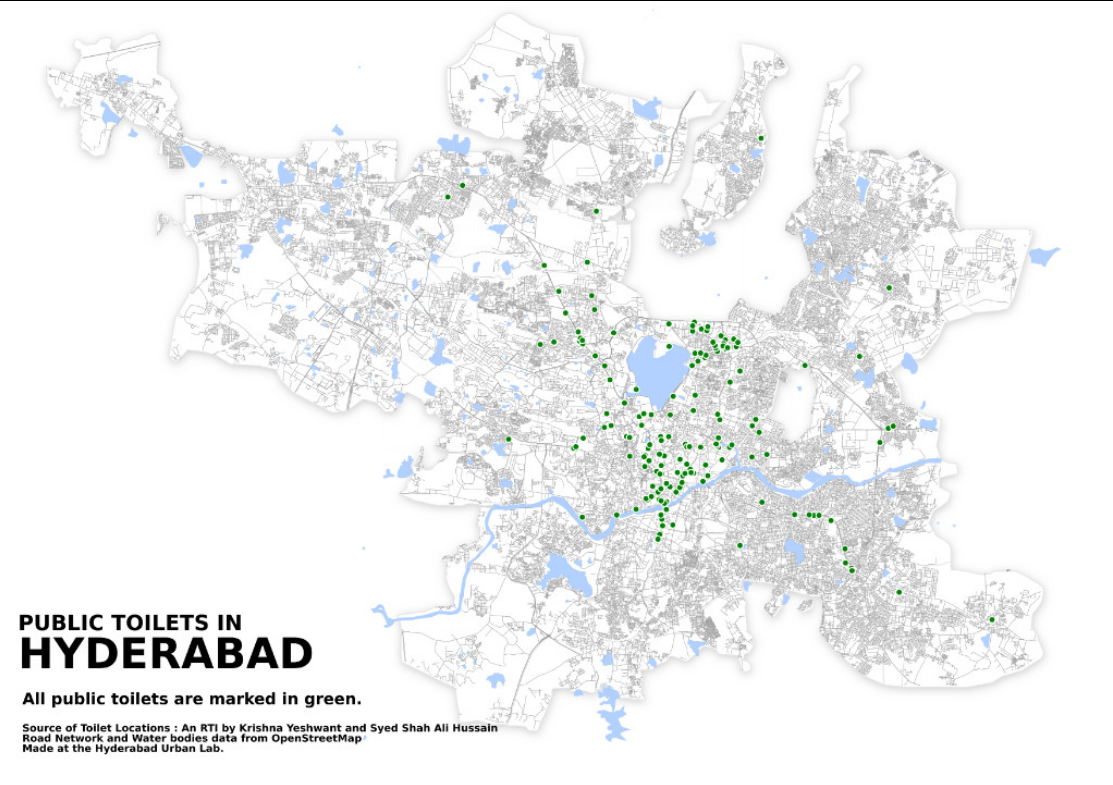
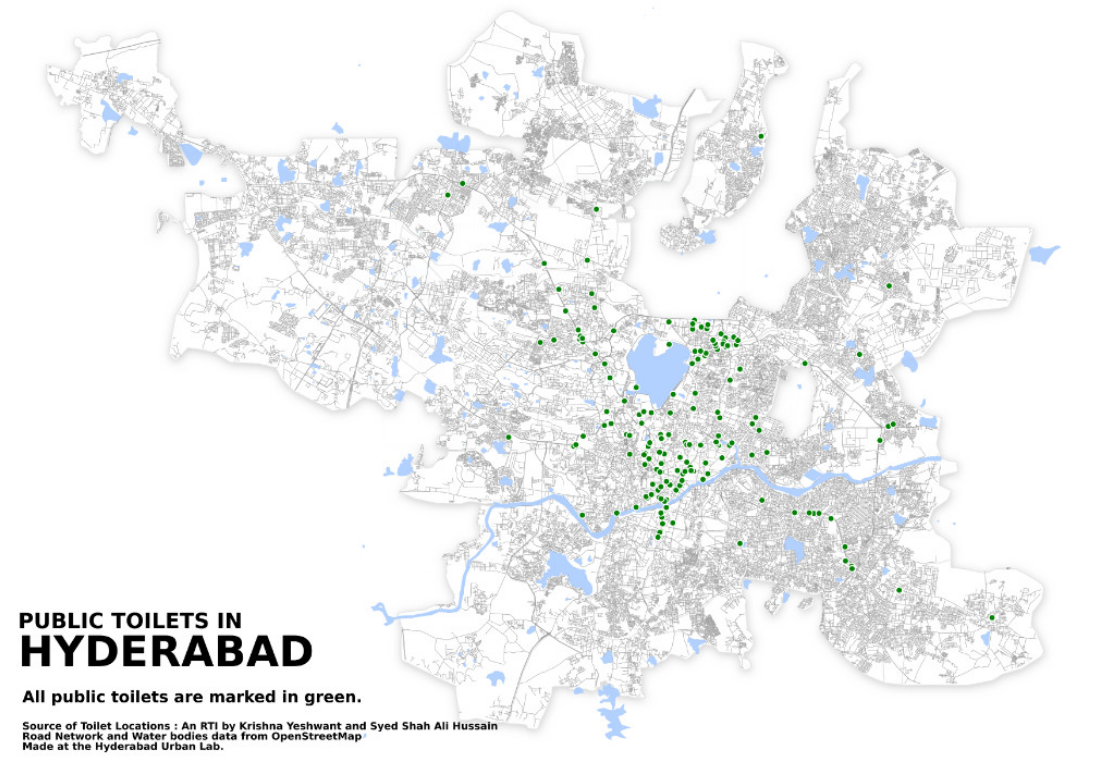
Cropping images to remove black lines and labelling post as draft

diff --git a/_posts/2020-07-28-geospatial-data-of-waste-in-india.md b/_posts/2020-07-28-geospatial-data-of-waste-in-india.md
@@ -7,6 +7,7 @@ sidebar:
   nav: spatial_review_series"
 ---
 
+# DRAFT 
 # Summary
 India's problems with waste are reviewed by academics Assa Doron and Robin Jeffrey in their recent work, Waste of a Nation [1]. They cite poor availability of 'on the ground' data as an important weakness of local urban government in India. In this essay, I highlight two examples of citizen and volunteer-led data projects in two separate Indian meagacities (Chennai and Hyderabad) that have engaged with marginalised commmunities to generate open data about their waste infrastructure issues. 
 
@@ -38,9 +39,9 @@ Luckily for India, this challenge of creating geospatial data and understanding 
 <p style='font-size: 90%; text-align: right; font-style:italic;'>
 - Hyderabad Urban Lab [3]
 </p>
+<br>
 
-
-## Data generation through volunteer mapping and surveys
+# Data generation through volunteer mapping and surveys
 
 The fishing village, Urur Olcott kuppam, depicted in the figure below, is situated next to an affluent fringe suburb of Chennai. Despite this proximitiy, the fishing village was not  connected to water mains and the villagers had to make do with significantly fewer garbage truck visits.  The unsanitary conditions in the village prompted further worry for the villagers about unlawful land grabbing by property developers wanting to extend the affluent fringes further. 
 
@@ -49,7 +50,7 @@ The fishing village, Urur Olcott kuppam, depicted in the figure below, is situat
 <p style='font-size: 90%; text-align: right; font-style:italic;'>
 - Urban Design Collective [2]
 </p>
-
+<br>
 
 | Urur Olcott kuppam's lack of water and sanitation infrastructure._Image from [2]_ |
 |:--:|
@@ -66,16 +67,16 @@ After the initial contact from the panchayat leader, volunteers mapped out the k
 | <img src="../images/2020-07-28-geospatial-data-of-waste-in-india/urur-olcott-mapping.png">|
 
 
-## Data to action
+# Data to action
 
 The Urur Olcott kuppam project systematically collected data and built development options around data before building proposals that could be presented before sources of funding and the relevant government agencies. 
 
 | Timeline of a volunteer-led project. Project plan to proposal. _Image from [2]_|
 |:--:|
-| <img src="../images/2020-07-28-geospatial-data-of-waste-in-india/data-to-action.png" style="width:70%">|
+| <img src="../images/2020-07-28-geospatial-data-of-waste-in-india/data-to-action.png">|
 
 
-## Realistic policies and enforcement
+# Realistic policies and enforcement
 
 Swacch Bharat Abhiyan (Clean India Mission) is a nation-wide program that aims to clean up India. One of its clear aims is to stop open defecation. An estimated 24% of households in small urban areas (<100k people) and 6% of households in large urban areas (>100k people) engage in open defaction [4]. This practice that is not only rooted in rural habits ported to urban locales through recent migations but also severe limitations in accessible and culturally acceptable options of toilets. 
 
@@ -91,6 +92,7 @@ Doron and Jeffrey illustrate that diverting people's practice from open defecati
 <p style='font-size: 90%; text-align: right; font-style:italic;'>
 - Hyderabad Urban Lab [3]
 </p>
+<br>
 
 Even a cursory glance of the public toilets and the slum map shows that there is very poor overlap of public toilets and slums. Maps like these from HUL highlight not only the inaccessibility of necessary infrastructure but also indicate the deep folly of penalties and enforcements for actions that are intrinsically impossible due to the access issues. 
 
@@ -117,17 +119,3 @@ Even a cursory glance of the public toilets and the slum map shows that there is
 
 6. [A Civic Mapping Project in an Indian Megacity](https://notanatlas.org/maps/a-civic-mapping-project-in-an-indian-megacity/)
 
-
-
-## Purpose
-
-- Many of our mapping exercis-es are conducted in this audit modality with which we hope to be able to persuade the government to plan public amenities and im-plement policies with greater care.
-- The community members quickly understood the usefulness of the map and also that they had taken ownership of it. The idea that community mapping might be an empowering process was affirmed by maps drawn to contest the government's view of Bholakpur.Taking ownership of these maps also enables the community to make claims on their own knowledge of the place.
-- The map generated from this database is useful for citizens but it also helps us to understand areas in the city that are deprived of public transportation.
-- ..we are trying to push the government towards improving their data practices. This is a long-term project because we believe that apart from civic mapping projects, public data itself should be publically accessible in general
-
-## Collecting data
-
-- Members of the community responded eagerly and played a ma-jor role in facilitating the process. They helped us to collect GPS tracks and to identify the key objects represented on the map.
-- As an experiment, we put out a public call for people to contribute shared auto rickshaw routes that they knew of. Within 8 hours, we had details on 85 routes in the city.
-- The data was collected through a public audit conducted by the HUL team and some volunteers.
